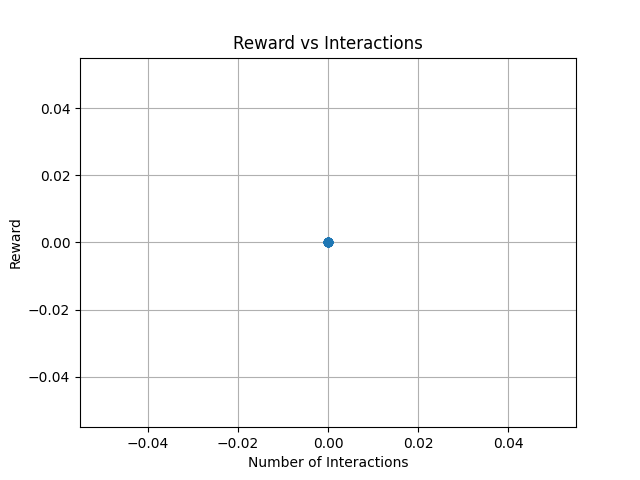
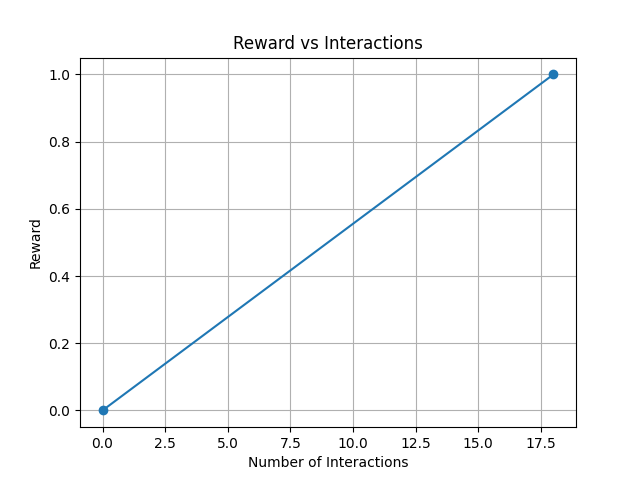
dvnj

diff --git a/prog_synth_pipeline/got120dsl_program_synthesis.py b/prog_synth_pipeline/got120dsl_program_synthesis.py
@@ -378,14 +378,14 @@ def synthesis_baseline():
 
 
 def synthesis_llm():
-    llm = LLM(model="/scratch/avani/gpt",     tensor_parallel_size=4 )
+    llm = LLM(model="/scratch/avani/gpt", tensor_parallel_size=2)
     params = SamplingParams(temperature=0.7, max_tokens=5000)
     with open("cfg/cfg.txt") as f:
         cfg = f.read()
     with open("craft/resources/recipes.yaml") as f:
         recipes = f.read()
 
-    client = genai.Client()
+#    client = genai.Client()
     first_failing_funcs = []
     programs = []
 
@@ -458,8 +458,7 @@ def synthesis_llm():
     ##Return a program that is able to solve the task
     
     """
-        print(prompt)
-        break
+        
         for i in range(10):
             # response = client.models.generate_content(
             #                 model="gemini-2.5-pro", contents = prompt
@@ -482,18 +481,19 @@ def synthesis_llm():
             output = llm.generate([prompt], params)
             response = output[0].outputs[0].text
 
-            print(response)
+#            print(response)
             # response = response.text for gemini
             # b = response.strip('$ ')
-            response = "Here is $some text$ and more"
+        #    response = "Here is $some text$ and more"
             b = re.search(r'\$(.*?)\$\s*', response)
             if b:
                 b = b.group(1)
             else:
                 continue
             print(b)
+            program = b 
             # b= "COLLECT_FUNC(WOOD) ;  COLLECT_FUNC(IRON) ; CRAFT_FUNC(BRIDGE) ;"
-            programs.append(b)
+            #programs.append(b)
             a, program_str, results, s, r, eval_time, task, funcs, interact, rewa = evaluate(b, task ,env, inter, reward)
             # print(a)
             # print(len(interact))
